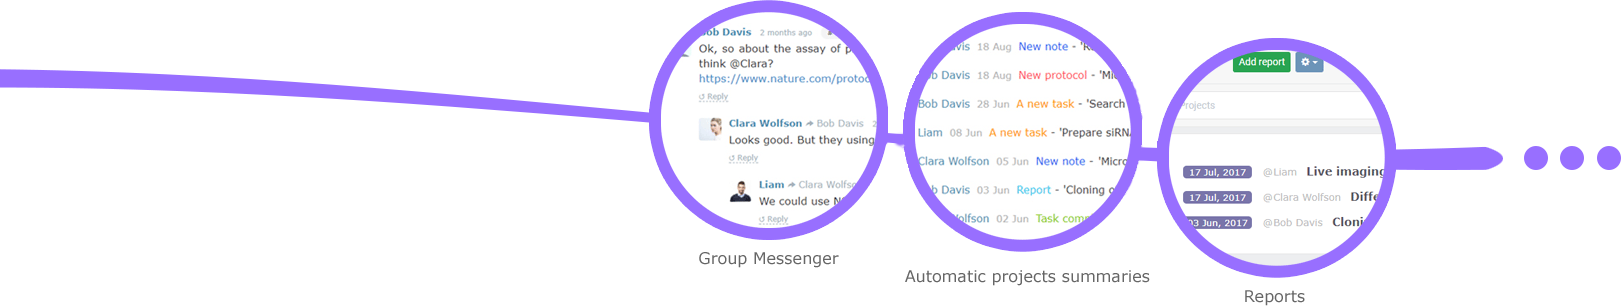
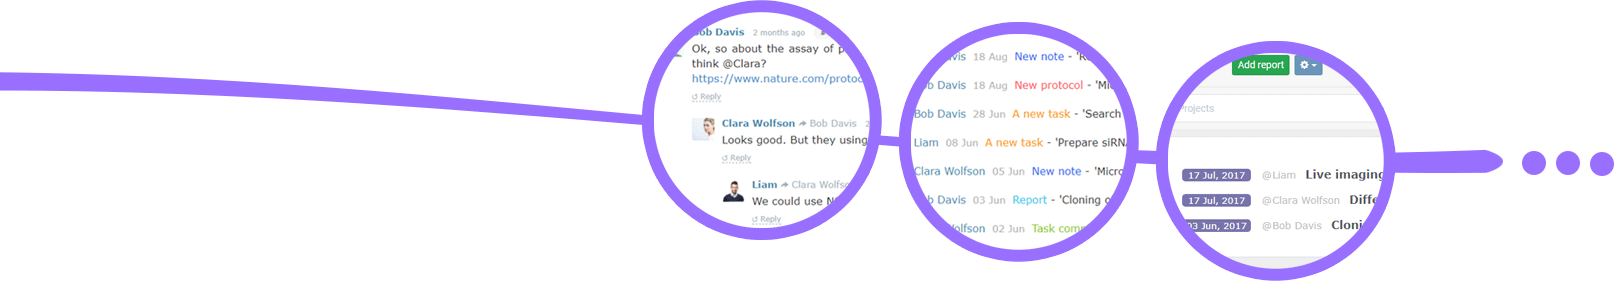
commit

Changed region(s): [[0.0, 0.0, 1.0, 1.0], [0.8364, 0.2847, 0.8674, 0.3416]]

diff --git a/style.css b/style.css
@@ -286,15 +286,15 @@ body {
 }
 
 .w1 {
-	margin-top: -100px;
+	margin-top: -90px;
 }
 
 .w2 {
-	margin-top: -80px;
+	margin-top: -70px;
 }
 
 .w3 {
-	margin-top: -60px;
+	margin-top: -50px;
 }
 
 .q2 {
@@ -323,7 +323,7 @@ body {
 	font-family: Verdana;
 	font-size: 16px;
 	color: #666666;
-	margin-left: 45px;
+	margin-left: 100px;
 }
 
 .q4 {
@@ -662,6 +662,7 @@ body {
 		display: flex;
 		margin: 0 auto;
 		width: 400px;
+		margin-bottom: 15px;
 	}
 	.imgw {
 		margin-left: 15px;
@@ -685,6 +686,7 @@ body {
 		margin-top: 35px;
 	}
 	.text {
+		margin-right: 15px;
 		font-size: 12px;
 		margin-left: 15px !important;
 	}

diff --git a/index.html b/index.html
@@ -254,7 +254,7 @@
 <div class="main-container rel">
 	<div class="container bottom-t">
 		<div class="caption ads_plus">That`s not all !</div>
-		<div><img class="line-img" src="images/ers.png"></div>
+		<div><img class="line-img" src="images/line.png"></div>
 		<div class="text-d">
 			<div class="text-q">
 				<div class="text-r w1">Group Messenger</div>
